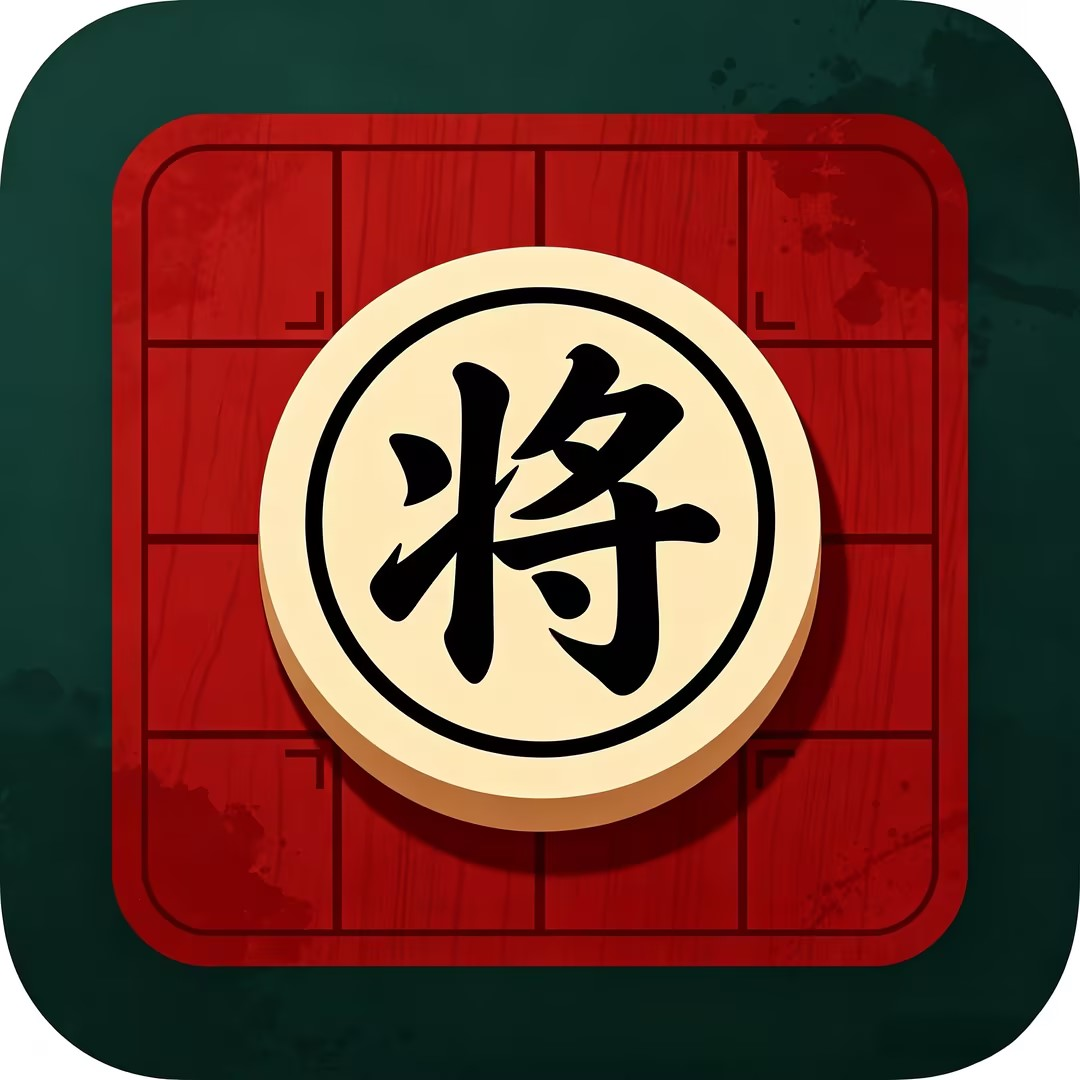
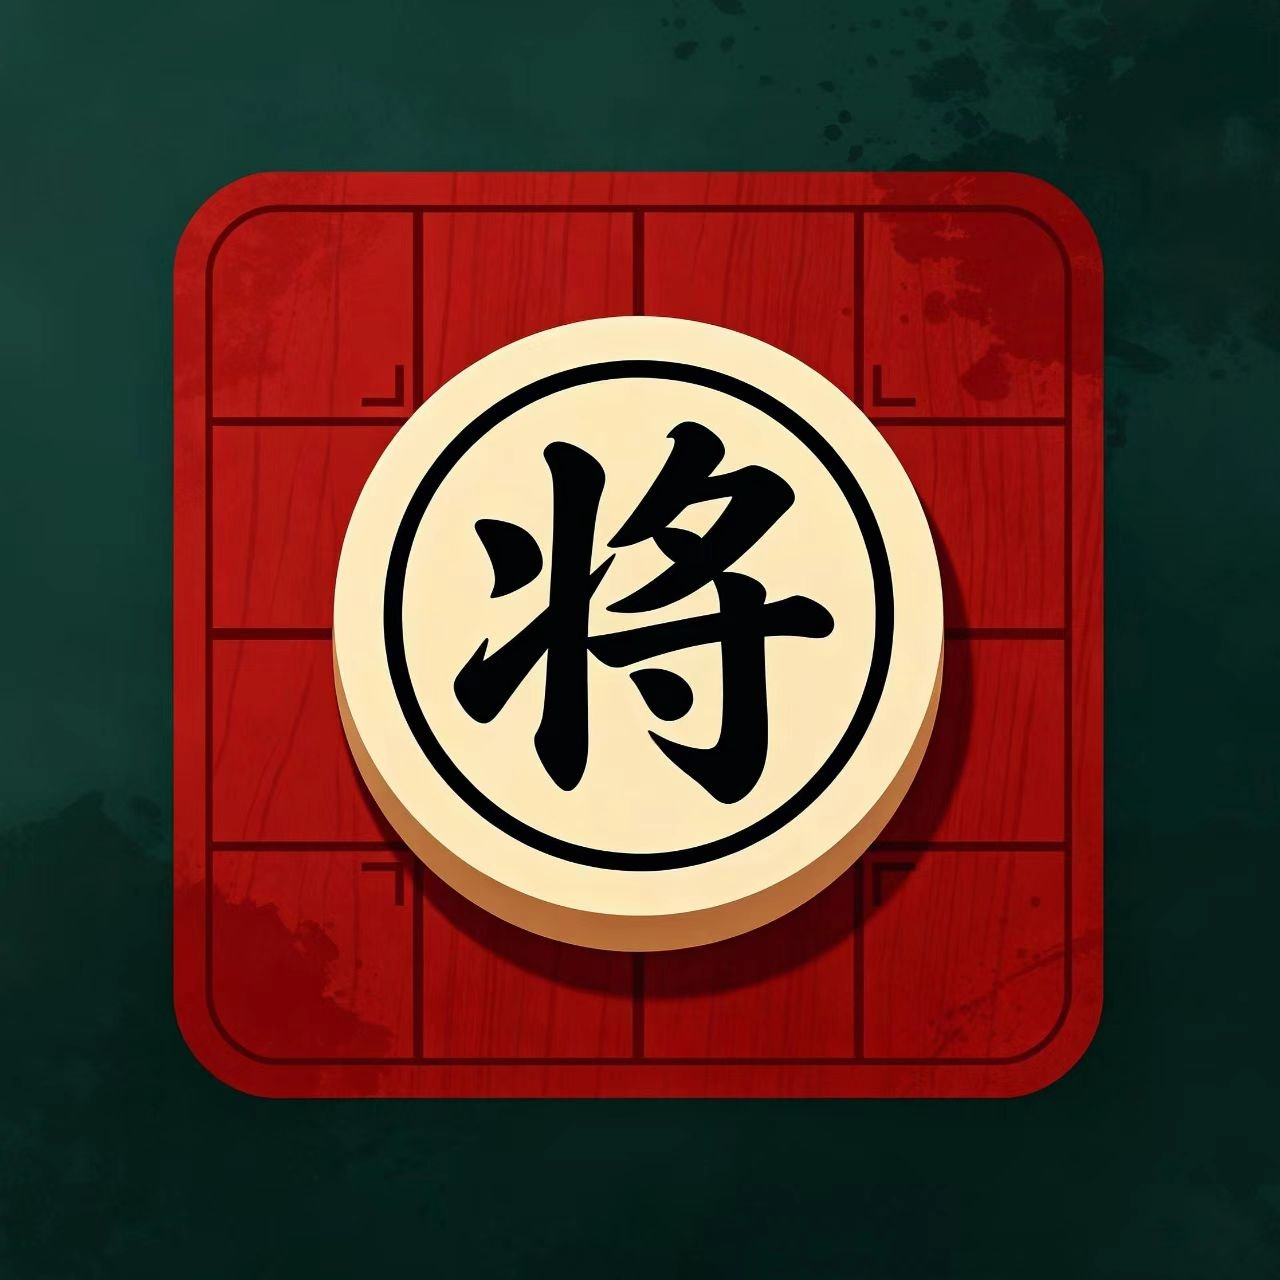
棋盘横向留白收敛为单一常量 BOARD_H_PADDING，并由 16 收紧为 8
此前 ChessBoard / CapturedPiecesDrawer / BoardEditor / 残局摆棋面板 /
布局预算 / 绝杀特效兜底估算各自硬编码同一个 16，任何一处漏改都会让
棋盘与角标行、抽屉、特效彼此错位。

- 新增 utils/chess/boardStyles.ts 的 BOARD_H_PADDING 作为全仓库唯一来源
- 依据真机反馈「棋盘与屏幕两侧还有一定空余」，单侧留白从 8 收紧为 4（合计 8）
- 替换 7 处硬编码；同步更新 scaleBaseWidth 的注释口径
- 更新应用图标 app-icon.jpg

diff --git a/chinese-chess-client/client/components/JueShaOverlay.tsx b/chinese-chess-client/client/components/JueShaOverlay.tsx
@@ -18,6 +18,8 @@
 import React, { useEffect, useState } from 'react';
 import { Animated, Image, StyleSheet, Text, TouchableOpacity, useWindowDimensions, View } from 'react-native';
 import { COLORS as MODAL_COLORS, RADIUS } from '@/constants/modal';
+import { BOARD_H_PADDING } from '@/utils/chess/boardStyles';
+import { useBoardStyle } from '@/utils/chess/boardStyleStore';
 import { FONT } from '@/utils/typography';
 
 // 大"绝"图片: 270x270 位于 (0,0)
@@ -95,6 +97,8 @@ export default function JueShaOverlay({
   showEffect = true,
 }: JueShaOverlayProps) {
   const { width: screenWidth, height: screenHeight } = useWindowDimensions();
+  // 兜底估算用的棋盘样式几何（与 ChessBoard 同一份样式，随用户在首页的设置变化）
+  const boardStyle = useBoardStyle();
 
   const [jue1Opacity] = useState(() => new Animated.Value(0));
   const [jue5Opacity] = useState(() => new Animated.Value(0));
@@ -174,13 +178,14 @@ export default function JueShaOverlay({
   if (!visible) return null;
 
   // 棋盘几何：优先用传入的真实棋盘位置（动态布局预算下棋盘尺寸/位置会变化），
-  // 未传入时退回"屏幕居中"估算，保证向后兼容
-  const boardW = boardFrame ? boardFrame.width : screenWidth - 16;
+  // 未传入时退回"按屏宽估算"，保证向后兼容。估算口径与 ChessBoard 一致
+  // （screenWidth - BOARD_H_PADDING 再按样式基准缩放），见 @/utils/chess/boardStyles
+  const boardW = boardFrame ? boardFrame.width : screenWidth - BOARD_H_PADDING;
   const boardCenterX = boardFrame ? boardFrame.x + boardFrame.width / 2 : screenWidth / 2;
   const boardCenterY = boardFrame ? boardFrame.y + boardFrame.height / 2 : screenHeight / 2;
   const boardBottom = boardFrame
     ? boardFrame.y + boardFrame.height
-    : screenHeight / 2 + ((screenWidth - 16) / 631 * 842) / 2;
+    : screenHeight / 2 + ((screenWidth - BOARD_H_PADDING) / boardStyle.scaleBaseWidth * boardStyle.scaleBaseHeight) / 2;
 
   // 缩放比例：内容包围盒宽度约为棋盘宽度的 80%（随动态棋盘大小自适应，兜底防止过小）
   const scale = Math.max((boardW * 0.8) / CONTENT_WIDTH, 0.1);

diff --git a/chinese-chess-client/client/components/ChessBoard.tsx b/chinese-chess-client/client/components/ChessBoard.tsx
@@ -24,7 +24,7 @@ import { View, Image, StyleSheet, useWindowDimensions, Text, GestureResponderEve
 import type { GameState } from '@/utils/chess/GameEngine';
 import { getPieceImage, PIECE_NAMES } from '@/utils/chess/pieceImages';
 import { useBoardStyle } from '@/utils/chess/boardStyleStore';
-import { gridSpacingX, gridSpacingY } from '@/utils/chess/boardStyles';
+import { gridSpacingX, gridSpacingY, BOARD_H_PADDING } from '@/utils/chess/boardStyles';
 // 【C-86】原 import { RED_SIDE, BLACK_SIDE } from '@/utils/chess/types' 是未使用 import
 // （全文件只命中这一行），已删除。
 import MoveEffectOverlay, { type MoveEffect } from '@/components/MoveEffectOverlay';
@@ -250,8 +250,8 @@ export default function ChessBoard({
   // 已是这个写法。
   const { width: screenWidth } = useWindowDimensions();
 
-  // 棋盘宽度 = 屏幕宽度（留少量边距）
-  const boardWidth = screenWidth - 16;
+  // 棋盘宽度 = 屏幕宽度（减去两侧留白 BOARD_H_PADDING，见 @/utils/chess/boardStyles）
+  const boardWidth = screenWidth - BOARD_H_PADDING;
 
   // 当前棋盘样式（用户可在首页设置中切换）：几何参数与背景图均随样式变化
   const boardStyle = useBoardStyle();
@@ -957,7 +957,7 @@ export function CapturedPiecesDrawer({ side, gameState, playerSide, maxBoardHeig
   // 【C-77】同 ChessBoard 主组件：Dimensions.get('window') 是模块级快照，改为订阅式 hook
   const { width: screenWidth } = useWindowDimensions();
   const drawerStyle = useBoardStyle();
-  const widthScale = (screenWidth - 16) / drawerStyle.scaleBaseWidth;
+  const widthScale = (screenWidth - BOARD_H_PADDING) / drawerStyle.scaleBaseWidth;
   const scale = maxBoardHeight && maxBoardHeight > 0
     ? Math.min(widthScale, maxBoardHeight / drawerStyle.scaleBaseHeight)
     : widthScale;

diff --git a/chinese-chess-client/client/utils/chess/boardStyles.ts b/chinese-chess-client/client/utils/chess/boardStyles.ts
@@ -11,6 +11,20 @@
 
 export type BoardStyleId = 'classic' | 'huali' | 'xuanmo';
 
+/**
+ * 棋盘相对屏幕左右两侧的留白总量（两侧合计，屏幕与棋盘本体边缘之间各留 BOARD_H_PADDING / 2）。
+ *
+ * 全仓库唯一的棋盘横向留白来源：凡「按屏宽换算棋盘缩放」的地方都必须取本常量，
+ * 包括 ChessBoard / CapturedPiecesDrawer（components/ChessBoard.tsx）、BoardEditor
+ * （components/BoardEditor.tsx）、残局摆棋面板（screens/endgameEdit/index.tsx）、
+ * 布局预算与对齐行宽度（utils/chess/capturedDrawerMetrics.ts、utils/chess/boardContentWidth.ts）
+ * 以及绝杀特效的兜底估算（components/JueShaOverlay.tsx）。
+ * 各处此前各自硬编码同一个 16，任何一处漏改都会让棋盘与角标行/抽屉/特效错位。
+ *
+ * 历史值 16（单侧 8）；2026-10 依据真机反馈「棋盘与屏幕两侧还有一定空余」收紧一半为 8（单侧 4）。
+ */
+export const BOARD_H_PADDING = 8;
+
 export interface BoardStyle {
   id: BoardStyleId;
   /** 样式展示名 */
@@ -28,7 +42,7 @@ export interface BoardStyle {
   pieceBottom: number;
   /** 棋子直径（原始图像素），随 scale 等比缩放 */
   pieceDiameter: number;
-  /** 屏宽映射基准：scale = (screenWidth - 16) / scaleBaseWidth */
+  /** 屏宽映射基准：scale = (screenWidth - BOARD_H_PADDING) / scaleBaseWidth */
   scaleBaseWidth: number;
   /** 纵向限高基准：scale = maxBoardHeight / scaleBaseHeight */
   scaleBaseHeight: number;

diff --git a/chinese-chess-client/client/screens/endgameEdit/index.tsx b/chinese-chess-client/client/screens/endgameEdit/index.tsx
@@ -23,6 +23,7 @@ import { Screen } from '@/components/Screen';
 import { AppModal, ModalButton, modalButtonRowStyle } from '@/components/Modal';
 import BoardEditor from '@/components/BoardEditor';
 import { useBoardStyle } from '@/utils/chess/boardStyleStore';
+import { BOARD_H_PADDING } from '@/utils/chess/boardStyles';
 import { useSafeRouter, useSafeSearchParams } from '@/hooks/useSafeRouter';
 import { createFromFen } from '@/utils/chess/GameEngine';
 import { FEN_CHARS } from '@/utils/chess/types';
@@ -193,7 +194,7 @@ export default function EndgameEditScreen() {
   // 数量角标的尺寸/偏移/字号同样沿用被吃棋子角标随棋子图比例联动的算法
   const screenWidth = Dimensions.get('window').width;
   const editBoardStyle = useBoardStyle();
-  const widthScale = (screenWidth - 16) / editBoardStyle.scaleBaseWidth;
+  const widthScale = (screenWidth - BOARD_H_PADDING) / editBoardStyle.scaleBaseWidth;
   const pieceSize = Math.floor(editBoardStyle.pieceDiameter * widthScale);
   const palettePieceSize = Math.max(Math.floor(pieceSize * 0.8), 1);
   const paletteBadgeSize = Math.max(Math.round(palettePieceSize * 0.47), 12);

diff --git a/chinese-chess-client/client/components/BoardEditor.tsx b/chinese-chess-client/client/components/BoardEditor.tsx
@@ -15,7 +15,7 @@ import React, { useMemo } from 'react';
 import { View, Image, StyleSheet, useWindowDimensions, GestureResponderEvent } from 'react-native';
 import { getPieceImage } from '@/utils/chess/pieceImages';
 import { useBoardStyle } from '@/utils/chess/boardStyleStore';
-import { gridSpacingX, gridSpacingY } from '@/utils/chess/boardStyles';
+import { gridSpacingX, gridSpacingY, BOARD_H_PADDING } from '@/utils/chess/boardStyles';
 import { COLS, ROWS } from '@/components/ChessBoard';
 
 interface BoardEditorProps {
@@ -34,7 +34,7 @@ export default function BoardEditor({ placements, onPointPress }: BoardEditorPro
   // 【C-77】Dimensions.get('window') 是模块级快照，旋转/改窗口后不更新；
   // 摆棋编辑器的棋盘宽度会停在旧视口（网格与棋子整体偏移）。改为订阅式 hook。
   const { width: screenWidth } = useWindowDimensions();
-  const boardWidth = screenWidth - 16;
+  const boardWidth = screenWidth - BOARD_H_PADDING;
   const scale = boardWidth / boardStyle.scaleBaseWidth;
 
   const scaledImageWidth = boardStyle.imgWidth * scale;

diff --git a/chinese-chess-client/client/utils/chess/capturedDrawerMetrics.ts b/chinese-chess-client/client/utils/chess/capturedDrawerMetrics.ts
@@ -21,7 +21,7 @@
 
 import { useMemo } from 'react';
 import { useBoardStyle } from './boardStyleStore';
-import type { BoardStyle } from './boardStyles';
+import { BOARD_H_PADDING, type BoardStyle } from './boardStyles';
 
 /** 抽屉按棋子类型分组展示（同类型合并为 1 项 + 右上角数量角标），单方最多 7 种类型
  * （将/帅、士/仕、象/相、马、车、炮、兵/卒）。抽屉展开高度按最多 7 项估算——
@@ -132,7 +132,7 @@ export function computeBoardLayoutBudget(
     return { maxBoardHeight: undefined, paddingTop: 0, drawerHeight: 0 };
   }
 
-  const widthScale = (screenWidth - 16) / boardStyle.scaleBaseWidth;
+  const widthScale = (screenWidth - BOARD_H_PADDING) / boardStyle.scaleBaseWidth;
   const widthBoardHeight = widthScale * boardStyle.scaleBaseHeight;
   // 摘要条悬浮区：摘要条高 30 + 基础间距 8 + 角标行让位偏移 stripOffset
   const stripReserve = STRIP_BASE_GAP + stripOffset + STRIP_SUMMARY_H;

diff --git a/chinese-chess-client/client/utils/chess/boardContentWidth.ts b/chinese-chess-client/client/utils/chess/boardContentWidth.ts
@@ -7,15 +7,14 @@
  * 与棋盘边缘脱节。
  *
  * ChessBoard 的实际渲染宽度与本文件口径完全一致（见 components/ChessBoard.tsx）：
- *   boardWidth = screenWidth - 16
+ *   boardWidth = screenWidth - BOARD_H_PADDING
  *   widthScale = boardWidth / boardStyle.scaleBaseWidth
  *   scale      = maxBoardHeight > 0 ? min(widthScale, maxBoardHeight / boardStyle.scaleBaseHeight) : widthScale
  *   渲染宽度   = boardStyle.imgWidth * scale
  * 因此角标行改用「棋盘本体宽度」并保持居中，即可与棋盘左右边缘精确对齐。
  */
 
-/** 棋盘水平留白：与 ChessBoard 内部 `boardWidth = screenWidth - 16` 的固定留白保持一致 */
-const BOARD_H_PADDING = 16;
+import { BOARD_H_PADDING } from './boardStyles';
 
 /**
  * 棋盘本体宽度（与 ChessBoard 渲染结果一致的预测值）。
